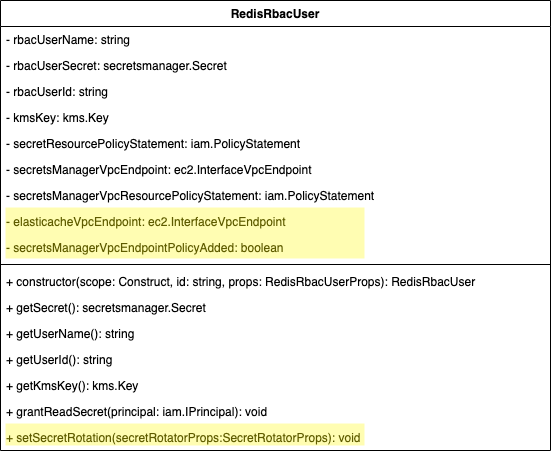
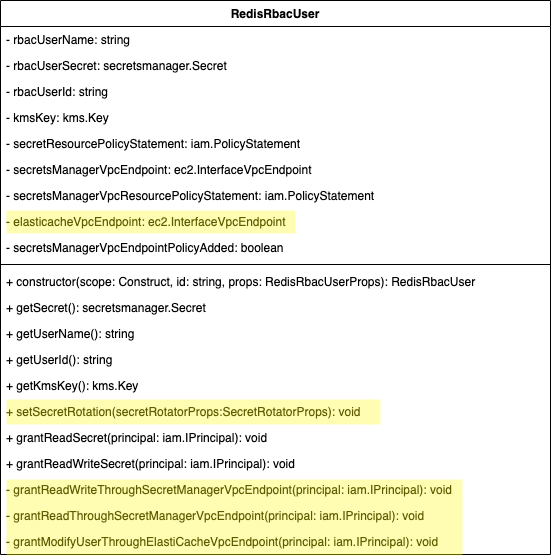
Updated diagrams and added rotator to consumer

diff --git a/lib/elasticache-user.ts b/lib/elasticache-user.ts
@@ -25,8 +25,10 @@ import {
   aws_elasticache as elasticache, 
   aws_secretsmanager as secretsmanager,
   Duration} from 'aws-cdk-lib';
+import { IPrincipal } from 'aws-cdk-lib/aws-iam';
 import { Construct } from 'constructs';
 import path = require('path');
+
 
 export interface RedisRbacUserProps {
   /** Redis Username that will be used in as ElastiCache user's username -- used to authenticate against Redis RBAC */
@@ -59,19 +61,34 @@ export interface SecretRotatorProps {
 }
 
 export class RedisRbacUser extends Construct {
-  
+
+  /** The Amazon Secrets Manager Secret that will store the ElastiCache user credentials */
   private rbacUserSecret: secretsmanager.Secret;
+
+  /** ElastiCache username that will be used in the CfnUser construct */
   private rbacUserName: string;
+
+  /** ElastiCache user id that will be used in the CfnUser construct */
   private rbacUserId: string;
 
+  /** AWS KMS key used to encrypt the secret */
   private kmsKey: kms.Key;
-  private secretResourcePolicyStatement: iam.PolicyStatement;
-  
+
+  // Endpoint definitions
   private secretsManagerVpcEndpoint: ec2.InterfaceVpcEndpoint;
-  private secretsManagerVpcResourcePolicyStatement: iam.PolicyStatement;
-  
   private elasticacheVpcEndpoint: ec2.InterfaceVpcEndpoint;
-  private secretsManagerVpcEndpointPolicyAdded = false
+
+  // Policy statements
+  private secretResourceReadPolicyStatement: iam.PolicyStatement;
+
+  private secretsManagerVpcEndpointReadPolicyStatement: iam.PolicyStatement;
+  private secretsManagerReadVpcEndpointPolicyAdded = false
+
+  private secretsManagerVpcEndpointReadWritePolicyStatement: iam.PolicyStatement;
+  private secretsManagerReadWriteVpcEndpointPolicyAdded: boolean = false;
+  
+  private elasticacheVpcEndpointModifyUserPolicyStatement: iam.PolicyStatement;
+  private elasticacheVpcEndpointStatementAdded: boolean = false;
 
   constructor(scope: Construct, id: string, props: RedisRbacUserProps) {
     super(scope, id);
@@ -88,14 +105,17 @@ export class RedisRbacUser extends Construct {
     }
     
     
-    
     if (!props.kmsKey) {
+      
       this.kmsKey = new kms.Key(this, 'kmsForSecret', {
         alias: 'redisRbacUser/'+this.rbacUserName,
         enableKeyRotation: true
       });
+
     } else {
+      
       this.kmsKey = props.kmsKey;
+
     }
 
     this.rbacUserSecret = new secretsmanager.Secret(this, 'secret', {
@@ -120,7 +140,7 @@ export class RedisRbacUser extends Construct {
     user.node.addDependency(this.rbacUserSecret)
 
     if(props.principals){
-      props.principals.forEach( (item) => {
+      props.principals.forEach((item) => {
           this.grantReadSecret(item)
       });
     }
@@ -128,7 +148,6 @@ export class RedisRbacUser extends Construct {
     if(props.secretRotatorProps){
       this.setSecretRotation(props.secretRotatorProps)
     }
-
   };
 
   public getSecret(): secretsmanager.Secret {
@@ -147,48 +166,146 @@ export class RedisRbacUser extends Construct {
     return this.kmsKey;
   }
 
-  public grantReadSecret(principal: iam.IPrincipal){
-    if (this.secretsManagerVpcResourcePolicyStatement == null){
-      this.secretsManagerVpcResourcePolicyStatement = new iam.PolicyStatement({
+  private grantReadThroughSecretManagerVpcEndpoint(principal: IPrincipal){
+
+    if (this.secretsManagerVpcEndpointReadPolicyStatement == null){
+
+      this.secretsManagerVpcEndpointReadPolicyStatement = new iam.PolicyStatement({
         effect: iam.Effect.ALLOW,
         actions: ['secretsmanager:DescribeSecret', 'secretsmanager:GetSecretValue'],
+        resources: [this.rbacUserSecret.secretArn],
+        principals: [principal]
+      })
+
+    } else {
+
+      this.secretsManagerVpcEndpointReadPolicyStatement.addPrincipals(principal)
+
+    }
+
+    if(this.secretsManagerVpcEndpoint && !this.secretsManagerReadVpcEndpointPolicyAdded){
+
+      this.secretsManagerVpcEndpoint.addToPolicy(this.secretsManagerVpcEndpointReadPolicyStatement)
+      this.secretsManagerReadVpcEndpointPolicyAdded = true
+
+    }
+  }
+
+  private grantReadWriteThroughSecretManagerVpcEndpoint(principal: IPrincipal){
+
+    if (this.secretsManagerVpcEndpointReadWritePolicyStatement == null){
+
+      this.secretsManagerVpcEndpointReadWritePolicyStatement = new iam.PolicyStatement({
+        effect: iam.Effect.ALLOW,
+        actions: ['secretsmanager:UpdateSecretVersionStage', 'secretsmanager:PutSecretValue', 'secretsmanager:DescribeSecret', 'secretsmanager:GetSecretValue'],
         resources: [this.rbacUserSecret.secretArn],
         principals: [principal]
       })
       
-      if(this.secretsManagerVpcEndpoint){
-        this.secretsManagerVpcEndpoint.addToPolicy(this.secretsManagerVpcResourcePolicyStatement)
-        this.secretsManagerVpcEndpointPolicyAdded = true
-      }
     } else {
-      this.secretsManagerVpcResourcePolicyStatement.addPrincipals(principal)
+
+      this.secretsManagerVpcEndpointReadWritePolicyStatement.addPrincipals(principal)
+
     }
+
+    if(this.secretsManagerVpcEndpoint && !this.secretsManagerReadWriteVpcEndpointPolicyAdded){
+
+      this.secretsManagerVpcEndpoint.addToPolicy(this.secretsManagerVpcEndpointReadWritePolicyStatement)
+      this.secretsManagerReadVpcEndpointPolicyAdded = true
+
+    }
+  }
+
+  private grantModifyUserThroughElastiCacheVpcEndpoint(principal: IPrincipal){
     
-    if (this.secretResourcePolicyStatement == null) {
-      this.secretResourcePolicyStatement = new iam.PolicyStatement({
+    if (this.elasticacheVpcEndpointModifyUserPolicyStatement == null){
+
+      this.elasticacheVpcEndpointModifyUserPolicyStatement = new iam.PolicyStatement({
+        effect: iam.Effect.ALLOW,
+        resources: ["arn:aws:elasticache:"+cdk.Stack.of(this).region+":"+cdk.Stack.of(this).account+":user:"+this.rbacUserId],
+        actions: [
+          "elasticache:DescribeUsers",
+          "elasticache:ModifyUser"
+        ],
+        principals: [principal]
+      })
+
+    }
+    else{
+
+      this.elasticacheVpcEndpointModifyUserPolicyStatement.addPrincipals(principal)
+
+    }
+
+    if(this.elasticacheVpcEndpoint && !this.elasticacheVpcEndpointStatementAdded){
+
+      this.elasticacheVpcEndpoint.addToPolicy(this.elasticacheVpcEndpointModifyUserPolicyStatement)
+      this.elasticacheVpcEndpointStatementAdded = true
+
+    }  
+  }
+
+  public grantReadSecret(principal: iam.IPrincipal){
+    
+    this.grantReadThroughSecretManagerVpcEndpoint(principal)
+    
+    if (this.secretResourceReadPolicyStatement == null) {
+
+      this.secretResourceReadPolicyStatement = new iam.PolicyStatement({
         effect: iam.Effect.ALLOW,
         actions: ['secretsmanager:DescribeSecret', 'secretsmanager:GetSecretValue'],
         resources: [this.rbacUserSecret.secretArn],
         principals: [principal]
       })
-      this.rbacUserSecret.addToResourcePolicy(this.secretResourcePolicyStatement)
+
+      this.rbacUserSecret.addToResourcePolicy(this.secretResourceReadPolicyStatement)
+      
     } else {
-      this.secretResourcePolicyStatement.addPrincipals(principal)
+      this.secretResourceReadPolicyStatement.addPrincipals(principal)
     }
 
     this.kmsKey.grantDecrypt(principal);
     this.rbacUserSecret.grantRead(principal)
   }
 
+  private grantReadWriteSecret(principal: iam.IPrincipal){
+    
+    this.grantReadWriteThroughSecretManagerVpcEndpoint(principal)
+    
+    if (this.secretResourceReadPolicyStatement == null) {
+
+      this.secretResourceReadPolicyStatement = new iam.PolicyStatement({
+        effect: iam.Effect.ALLOW,
+        actions: ['secretsmanager:UpdateSecretVersionStage', 'secretsmanager:PutSecretValue', 'secretsmanager:DescribeSecret', 'secretsmanager:GetSecretValue'],
+        resources: [this.rbacUserSecret.secretArn],
+        principals: [principal]
+      })
+
+      this.rbacUserSecret.addToResourcePolicy(this.secretResourceReadPolicyStatement)
+
+    } else {
+
+      this.secretResourceReadPolicyStatement.addPrincipals(principal)
+
+    }
+
+    this.kmsKey.grantEncryptDecrypt(principal)
+
+    this.rbacUserSecret.grantRead(principal)
+    this.rbacUserSecret.grantWrite(principal)
+  }
+
   public setSecretRotation(secretRotatorProps:SecretRotatorProps){
     var rotatorRole: iam.Role;
     var rotatorTimeoutSeconds = secretRotatorProps.rotatorTimeoutSeconds ? secretRotatorProps.rotatorTimeoutSeconds: 900
 
+    // Security group for the Rotator function
     const rotatorSecurityGroup = new ec2.SecurityGroup(this, "RotatorSG", {
       vpc: secretRotatorProps.vpc,
       description: "SecurityGroup for rotator function",
     });
 
+    // Rotator function's role
     rotatorRole = new iam.Role(this, "secret_rotator_role", {
       assumedBy: new iam.ServicePrincipal('lambda.amazonaws.com'),
       description: 'Role to be assumed by secret rotator function for '+this.rbacUserName,
@@ -196,6 +313,7 @@ export class RedisRbacUser extends Construct {
 
     rotatorRole.addManagedPolicy(iam.ManagedPolicy.fromAwsManagedPolicyName("service-role/AWSLambdaBasicExecutionRole"));
     rotatorRole.addManagedPolicy(iam.ManagedPolicy.fromAwsManagedPolicyName("service-role/AWSLambdaVPCAccessExecutionRole"));
+
     rotatorRole.addToPolicy(
       new iam.PolicyStatement({
         effect: iam.Effect.ALLOW,
@@ -230,6 +348,7 @@ export class RedisRbacUser extends Construct {
       })
     );
     
+    // The rotator function
     const rotatorFunction = new lambda.Function(this, 'rotator', {
       runtime: lambda.Runtime.PYTHON_3_7,
       handler: 'lambda_handler.lambda_handler',
@@ -248,48 +367,25 @@ export class RedisRbacUser extends Construct {
       }
     });
 
-    this.rbacUserSecret.grantRead(rotatorRole)
-    this.rbacUserSecret.grantWrite(rotatorRole)
+    this.grantReadWriteSecret(rotatorRole)
 
     this.rbacUserSecret.addRotationSchedule(this.rbacUserName+"_rotation_schedule", {
       rotationLambda: rotatorFunction,
       automaticallyAfter: secretRotatorProps.rotationPeriod, 
     })
 
+    // If an ElastiCache VPC endpoint is defined, then configure it to accept a connection from the rotator security group
     if(this.elasticacheVpcEndpoint){
       this.elasticacheVpcEndpoint.connections.allowTo(rotatorSecurityGroup, ec2.Port.tcp(443));
       this.elasticacheVpcEndpoint.connections.allowFrom(rotatorSecurityGroup, ec2.Port.tcp(443));
-      
-      this.elasticacheVpcEndpoint.addToPolicy(
-        new iam.PolicyStatement({
-          effect: iam.Effect.ALLOW,
-          resources: ["arn:aws:elasticache:"+cdk.Stack.of(this).region+":"+cdk.Stack.of(this).account+":user:"+this.rbacUserId],
-          actions: [
-            "elasticache:DescribeUsers",
-            "elasticache:ModifyUser"
-          ],
-          principals: [rotatorRole]
-        })
-      )
+      this.grantModifyUserThroughElastiCacheVpcEndpoint(rotatorRole)
     }
 
+    // If an Secrets Manager VPC endpoint is defined, then configure it to accept a connection from the rotator security group
     if(this.secretsManagerVpcEndpoint){
       this.secretsManagerVpcEndpoint.connections.allowTo(rotatorSecurityGroup, ec2.Port.tcp(443));
       this.secretsManagerVpcEndpoint.connections.allowFrom(rotatorSecurityGroup, ec2.Port.tcp(443));
-      
-      this.secretsManagerVpcEndpoint.addToPolicy(
-        new iam.PolicyStatement({
-          effect: iam.Effect.ALLOW,
-          resources: [this.rbacUserSecret.secretArn],
-          actions: [
-            "secretsmanager:DescribeSecret",
-            "secretsmanager:GetSecretValue",
-            "secretsmanager:PutSecretValue",
-            "secretsmanager:UpdateSecretVersionStage",
-          ],
-          principals: [rotatorRole]
-        })
-      );
+      this.grantReadWriteThroughSecretManagerVpcEndpoint(rotatorRole)
       
       this.secretsManagerVpcEndpoint.addToPolicy(
         new iam.PolicyStatement({
@@ -300,12 +396,7 @@ export class RedisRbacUser extends Construct {
           ],
           principals: [rotatorRole]
         })
-      );
-
-      if (!this.secretsManagerVpcEndpointPolicyAdded){
-        this.secretsManagerVpcEndpoint.addToPolicy(this.secretsManagerVpcResourcePolicyStatement)
-        this.secretsManagerVpcEndpointPolicyAdded = true
-      }
+      )
     }
   }
 }

diff --git a/lib/redis-rbac-stack.ts b/lib/redis-rbac-stack.ts
@@ -208,7 +208,14 @@ export class RedisRbacStack extends cdk.Stack {
       vpc,
       subnetSelection: {subnetType: ec2.SubnetType.PRIVATE_ISOLATED},
       rotationPeriod: Duration.days(30),
-      rotatorTimeoutSeconds: 600
+      rotatorTimeoutSeconds: 900
+    })
+
+    consumerRbacUser.setSecretRotation({
+      vpc,
+      subnetSelection: {subnetType: ec2.SubnetType.PRIVATE_ISOLATED},
+      rotationPeriod: Duration.days(25),
+      rotatorTimeoutSeconds: 900
     })
 
     const groupDefaultRbacUser = new RedisRbacUser(this, "groupDefaultUser"+'RBAC', {
@@ -270,7 +277,7 @@ export class RedisRbacStack extends cdk.Stack {
     // ------------------------------------------------------------------------------------
     const redisPyLayer = new lambda.LayerVersion(this, 'redispy_Layer', {
       code: lambda.Code.fromAsset(path.join(__dirname, 'lambda/lib/redis_module/redis_py.zip')),
-      compatibleRuntimes: [lambda.Runtime.PYTHON_3_8, lambda.Runtime.PYTHON_3_7, lambda.Runtime.PYTHON_3_6],
+      compatibleRuntimes: [lambda.Runtime.PYTHON_3_8, lambda.Runtime.PYTHON_3_9, lambda.Runtime.PYTHON_3_7],
       description: 'A layer that contains the redispy module',
       license: 'MIT License'
     });
